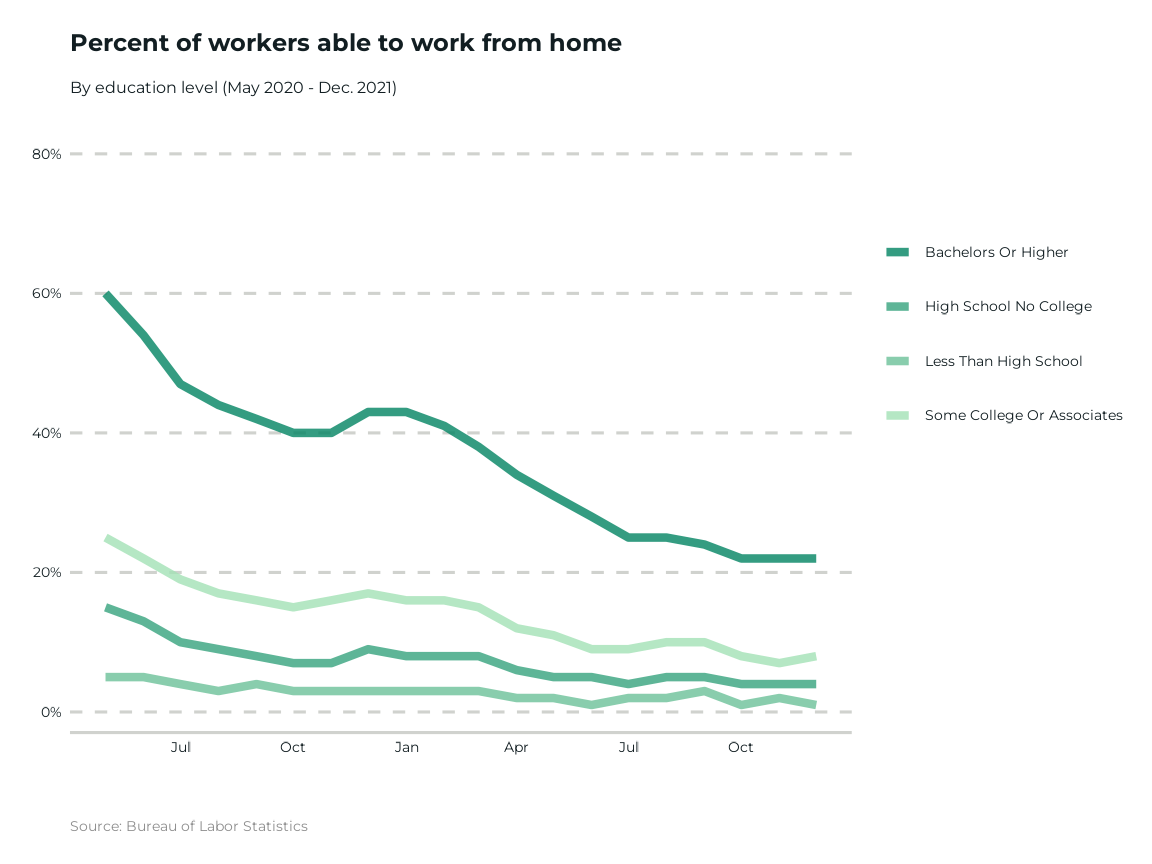
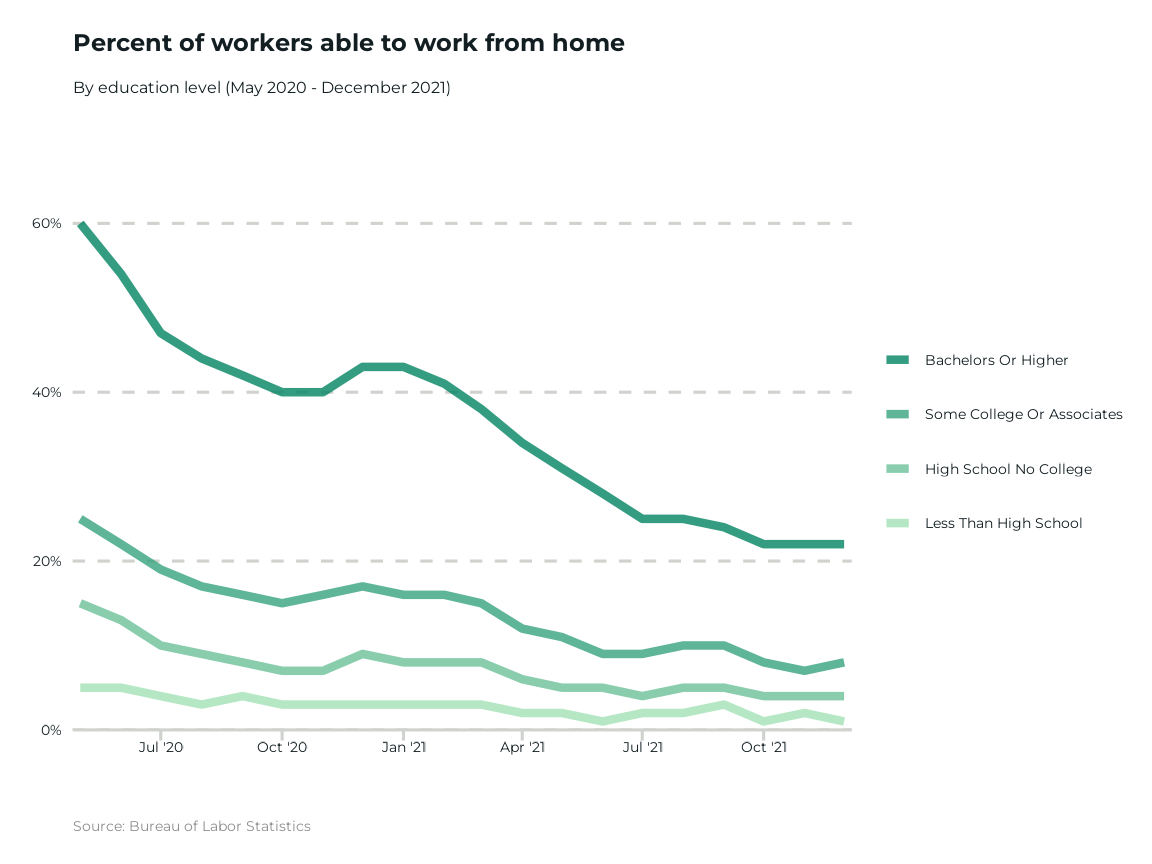
Deploying to gh-pages from @ ruralinnovation/cori.charts@29afb6dd74d08a1e91c2ae9f3c111029f318c0df 🚀

diff --git a/articles/cookbook.html b/articles/cookbook.html
@@ -341,6 +341,7 @@
     <span class="co"># Remove underscores and convert to title case</span>
     education_clean <span class="op">=</span> <span class="fu">stringr</span><span class="fu">::</span><span class="fu"><a href="https://stringr.tidyverse.org/reference/case.html" class="external-link">str_to_title</a></span><span class="op">(</span><span class="fu">stringr</span><span class="fu">::</span><span class="fu"><a href="https://stringr.tidyverse.org/reference/str_replace.html" class="external-link">str_replace_all</a></span><span class="op">(</span><span class="va">education</span>, <span class="st">"_"</span>, <span class="st">" "</span><span class="op">)</span><span class="op">)</span>
   <span class="op">)</span>
+
 <span class="fu"><a href="https://dplyr.tidyverse.org/reference/glimpse.html" class="external-link">glimpse</a></span><span class="op">(</span><span class="va">line_chart_data</span><span class="op">)</span>
 <span class="co">#&gt; Rows: 80</span>
 <span class="co">#&gt; Columns: 4</span>
@@ -354,25 +355,49 @@
 <span class="co"># update the geom defaults before plotting</span>
 <span class="fu"><a href="../reference/update_cori_geom_defaults.html">update_cori_geom_defaults</a></span><span class="op">(</span><span class="op">)</span>
 
+<span class="co"># Order the legend labels based upon their final data point</span>
+<span class="co">#</span>
+<span class="co"># Filter to the final data point and pull the order</span>
+<span class="va">latest_date</span> <span class="op">&lt;-</span> <span class="va">line_chart_data</span> <span class="op"><a href="https://magrittr.tidyverse.org/reference/pipe.html" class="external-link">%&gt;%</a></span> <span class="fu"><a href="https://dplyr.tidyverse.org/reference/pull.html" class="external-link">pull</a></span><span class="op">(</span><span class="va">date</span><span class="op">)</span> <span class="op"><a href="https://magrittr.tidyverse.org/reference/pipe.html" class="external-link">%&gt;%</a></span> <span class="fu"><a href="https://rdrr.io/r/base/Extremes.html" class="external-link">max</a></span><span class="op">(</span><span class="op">)</span>
+<span class="va">factor_order</span> <span class="op">&lt;-</span> <span class="va">line_chart_data</span> <span class="op"><a href="https://magrittr.tidyverse.org/reference/pipe.html" class="external-link">%&gt;%</a></span>
+  <span class="fu">dplyr</span><span class="fu">::</span><span class="fu"><a href="https://dplyr.tidyverse.org/reference/filter.html" class="external-link">filter</a></span><span class="op">(</span><span class="va">date</span> <span class="op">==</span> <span class="va">latest_date</span><span class="op">)</span> <span class="op"><a href="https://magrittr.tidyverse.org/reference/pipe.html" class="external-link">%&gt;%</a></span>
+  <span class="fu">dplyr</span><span class="fu">::</span><span class="fu"><a href="https://dplyr.tidyverse.org/reference/arrange.html" class="external-link">arrange</a></span><span class="op">(</span><span class="fu"><a href="https://dplyr.tidyverse.org/reference/desc.html" class="external-link">desc</a></span><span class="op">(</span><span class="va">percent_working_remotely</span><span class="op">)</span><span class="op">)</span> <span class="op"><a href="https://magrittr.tidyverse.org/reference/pipe.html" class="external-link">%&gt;%</a></span>
+  <span class="fu"><a href="https://dplyr.tidyverse.org/reference/pull.html" class="external-link">pull</a></span><span class="op">(</span><span class="va">education_clean</span><span class="op">)</span>
+
+<span class="co"># Update the column based upon the preferred order</span>
+<span class="va">line_chart_data</span> <span class="op">&lt;-</span> <span class="va">line_chart_data</span> <span class="op"><a href="https://magrittr.tidyverse.org/reference/pipe.html" class="external-link">%&gt;%</a></span>
+  <span class="fu">dplyr</span><span class="fu">::</span><span class="fu"><a href="https://dplyr.tidyverse.org/reference/mutate.html" class="external-link">mutate</a></span><span class="op">(</span>education_clean <span class="op">=</span> <span class="fu"><a href="https://rdrr.io/r/base/factor.html" class="external-link">factor</a></span><span class="op">(</span><span class="va">education_clean</span>, levels <span class="op">=</span> <span class="va">factor_order</span><span class="op">)</span><span class="op">)</span>
+
 <span class="va">line_chart_data</span> <span class="op"><a href="https://magrittr.tidyverse.org/reference/pipe.html" class="external-link">%&gt;%</a></span>
   <span class="fu"><a href="https://ggplot2.tidyverse.org/reference/ggplot.html" class="external-link">ggplot</a></span><span class="op">(</span>
        <span class="fu"><a href="https://ggplot2.tidyverse.org/reference/aes.html" class="external-link">aes</a></span><span class="op">(</span><span class="va">date</span>, <span class="va">percent_working_remotely</span>, color <span class="op">=</span> <span class="va">education_clean</span><span class="op">)</span><span class="op">)</span> <span class="op">+</span>
   <span class="fu"><a href="https://ggplot2.tidyverse.org/reference/geom_path.html" class="external-link">geom_line</a></span><span class="op">(</span><span class="op">)</span> <span class="op">+</span>
   <span class="fu"><a href="../reference/scales.html">scale_color_cori</a></span><span class="op">(</span>guide <span class="op">=</span> <span class="fu"><a href="https://ggplot2.tidyverse.org/reference/guide_legend.html" class="external-link">guide_legend</a></span><span class="op">(</span>reverse <span class="op">=</span> <span class="cn">TRUE</span><span class="op">)</span><span class="op">)</span> <span class="op">+</span>
-  <span class="fu"><a href="https://ggplot2.tidyverse.org/reference/scale_date.html" class="external-link">scale_x_date</a></span><span class="op">(</span>date_breaks <span class="op">=</span> <span class="st">"3 months"</span>, date_labels <span class="op">=</span>  <span class="st">"%b"</span><span class="op">)</span> <span class="op">+</span>
-  <span class="fu"><a href="https://ggplot2.tidyverse.org/reference/scale_continuous.html" class="external-link">scale_y_continuous</a></span><span class="op">(</span>labels <span class="op">=</span> <span class="fu">scales</span><span class="fu">::</span><span class="va"><a href="https://scales.r-lib.org/reference/percent_format.html" class="external-link">percent</a></span>, limits <span class="op">=</span> <span class="fu"><a href="https://rdrr.io/r/base/c.html" class="external-link">c</a></span><span class="op">(</span><span class="cn">NA</span>, <span class="fl">0.8</span><span class="op">)</span><span class="op">)</span> <span class="op">+</span>
+  <span class="fu"><a href="https://ggplot2.tidyverse.org/reference/scale_date.html" class="external-link">scale_x_date</a></span><span class="op">(</span>
+    date_breaks <span class="op">=</span> <span class="st">"3 months"</span>,
+    date_labels <span class="op">=</span>  <span class="st">"%b '%y"</span>,
+    expand <span class="op">=</span> <span class="fu"><a href="https://ggplot2.tidyverse.org/reference/expansion.html" class="external-link">expansion</a></span><span class="op">(</span>mult <span class="op">=</span> <span class="fu"><a href="https://rdrr.io/r/base/c.html" class="external-link">c</a></span><span class="op">(</span><span class="fl">.01</span>,<span class="fl">.01</span><span class="op">)</span><span class="op">)</span>
+  <span class="op">)</span> <span class="op">+</span>
+  <span class="fu"><a href="https://ggplot2.tidyverse.org/reference/scale_continuous.html" class="external-link">scale_y_continuous</a></span><span class="op">(</span>
+    labels <span class="op">=</span> <span class="fu">scales</span><span class="fu">::</span><span class="fu"><a href="https://scales.r-lib.org/reference/label_percent.html" class="external-link">label_percent</a></span><span class="op">(</span>accuracy <span class="op">=</span> <span class="fl">1</span><span class="op">)</span>,
+    limits <span class="op">=</span> <span class="fu"><a href="https://rdrr.io/r/base/c.html" class="external-link">c</a></span><span class="op">(</span><span class="fl">0</span>, <span class="fl">.65</span><span class="op">)</span>,
+    expand <span class="op">=</span> <span class="fu"><a href="https://ggplot2.tidyverse.org/reference/expansion.html" class="external-link">expansion</a></span><span class="op">(</span>mult <span class="op">=</span> <span class="fu"><a href="https://rdrr.io/r/base/c.html" class="external-link">c</a></span><span class="op">(</span><span class="fl">0</span>, <span class="fl">.1</span><span class="op">)</span><span class="op">)</span>
+  <span class="op">)</span> <span class="op">+</span>
   <span class="fu"><a href="../reference/theme_cori.html">theme_cori</a></span><span class="op">(</span><span class="op">)</span> <span class="op">+</span>
   <span class="fu">ggplot2</span><span class="fu">::</span><span class="fu"><a href="https://ggplot2.tidyverse.org/reference/theme.html" class="external-link">theme</a></span><span class="op">(</span>
     <span class="co"># CORI themes defaults to a horizontal legend below the title,</span>
-    <span class="co"># but with long names it can be easier to display the legend on</span>
-    <span class="co"># the right</span>
-    legend.spacing.y <span class="op">=</span> <span class="fu"><a href="https://rdrr.io/r/grid/unit.html" class="external-link">unit</a></span><span class="op">(</span><span class="fl">10</span>, <span class="st">"pt"</span><span class="op">)</span>,
+    <span class="co"># but with long names it can be easier to display the legend on the right</span>
     legend.position <span class="op">=</span> <span class="st">"right"</span>,
-    legend.direction <span class="op">=</span> <span class="st">"vertical"</span>
+    legend.direction <span class="op">=</span> <span class="st">"vertical"</span>,
+    <span class="co"># Add ticks to the x-axis</span>
+    axis.ticks.x <span class="op">=</span> <span class="fu"><a href="https://ggplot2.tidyverse.org/reference/element.html" class="external-link">element_line</a></span><span class="op">(</span>color <span class="op">=</span> <span class="st">"#d0d2ce"</span><span class="op">)</span>,
+    axis.ticks.length <span class="op">=</span> <span class="fu"><a href="https://rdrr.io/r/grid/unit.html" class="external-link">unit</a></span><span class="op">(</span><span class="fl">4</span>, <span class="st">'pt'</span><span class="op">)</span>
   <span class="op">)</span> <span class="op">+</span>
- <span class="fu"><a href="https://ggplot2.tidyverse.org/reference/guides.html" class="external-link">guides</a></span><span class="op">(</span>color <span class="op">=</span> <span class="fu"><a href="https://ggplot2.tidyverse.org/reference/guide_legend.html" class="external-link">guide_legend</a></span><span class="op">(</span>nrow <span class="op">=</span> <span class="fl">8</span>, byrow <span class="op">=</span> <span class="cn">TRUE</span><span class="op">)</span><span class="op">)</span> <span class="op">+</span>
+  <span class="co"># In order for a legend on the right to render properly,</span>
+  <span class="co"># you need to specify that byrow = TRUE</span>
+  <span class="fu"><a href="https://ggplot2.tidyverse.org/reference/guides.html" class="external-link">guides</a></span><span class="op">(</span>color <span class="op">=</span> <span class="fu"><a href="https://ggplot2.tidyverse.org/reference/guide_legend.html" class="external-link">guide_legend</a></span><span class="op">(</span>byrow <span class="op">=</span> <span class="cn">TRUE</span><span class="op">)</span><span class="op">)</span> <span class="op">+</span>
   <span class="fu"><a href="https://ggplot2.tidyverse.org/reference/labs.html" class="external-link">labs</a></span><span class="op">(</span>title <span class="op">=</span> <span class="st">"Percent of workers able to work from home"</span>,
-       subtitle <span class="op">=</span> <span class="st">"By education level (May 2020 - Dec. 2021)"</span>,
+       subtitle <span class="op">=</span> <span class="st">"By education level (May 2020 - December 2021)"</span>,
        x <span class="op">=</span> <span class="cn">NULL</span>,
        y <span class="op">=</span> <span class="cn">NULL</span>,
        caption <span class="op">=</span> <span class="st">"Source: Bureau of Labor Statistics"</span><span class="op">)</span></code></pre></div>

diff --git a/reference/colors.html b/reference/colors.html
@@ -103,8 +103,8 @@ formats ready for <a href="https://ggplot2.tidyverse.org/reference/ggplot2-packa
 <span class="r-out co"><span class="r-pr">#&gt;</span>         rgb(x[, 1L], x[, 2L], x[, 3L], x[, 4L], maxColorValue = 255)</span>
 <span class="r-out co"><span class="r-pr">#&gt;</span>     else rgb(x[, 1L], x[, 2L], x[, 3L], maxColorValue = 255)</span>
 <span class="r-out co"><span class="r-pr">#&gt;</span> }</span>
-<span class="r-out co"><span class="r-pr">#&gt;</span> &lt;bytecode: 0x55926623bea0&gt;</span>
-<span class="r-out co"><span class="r-pr">#&gt;</span> &lt;environment: 0x55926623d020&gt;</span>
+<span class="r-out co"><span class="r-pr">#&gt;</span> &lt;bytecode: 0x562c617561e8&gt;</span>
+<span class="r-out co"><span class="r-pr">#&gt;</span> &lt;environment: 0x562c61757368&gt;</span>
 </code></pre></div>
     </div>
   </main><aside class="col-md-3"><nav id="toc"><h2>On this page</h2>
